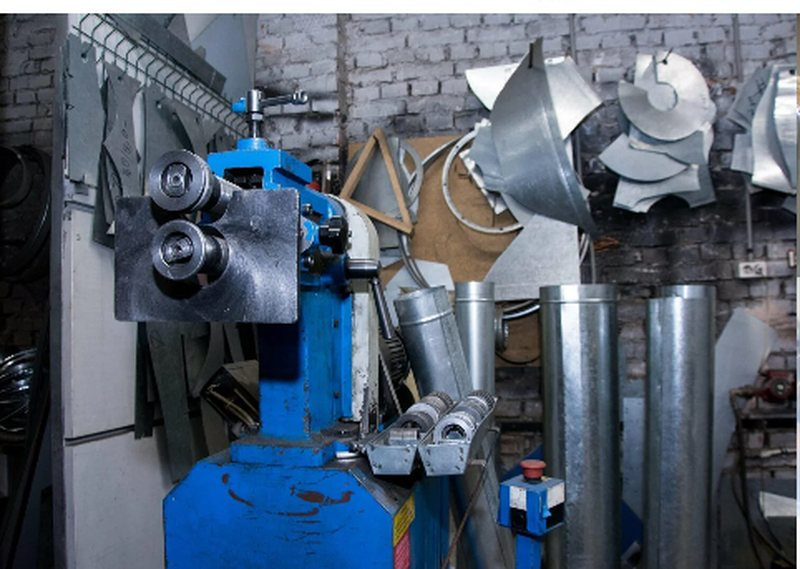
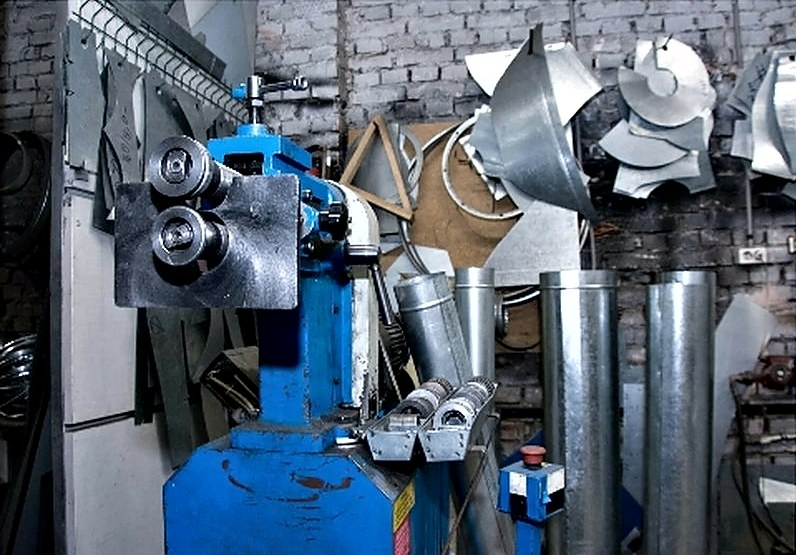
Restore the rest of the gallery photos
All work-*.jpg came out of screenshots of the old site and are damaged in
different ways, so each gets its own exposure target and colour-correction
strength rather than one recipe. Colour correction is off entirely where the
colour means something: the red CNC machine, the blue sky, snow.

Black and white points are set on luminance so hues do not shift, then a
saturation guard pulls chroma back if the stretch inflated it by more than
15% -- without it the hangar's sky went acid blue.

Edge bands left over from the screenshot crops are trimmed to measured
bounds. Auto-detection is not used: it ate ten live columns of work-3, whose
right side is legitimately three times brighter than its left.

Gallery weight goes from 480 to 674 KB; the processed frames carry more
contrast and compress worse. Dropping quality to 85 saves only 6%, so it
stays at 88.

Claude-Session: https://claude.ai/code/session_01BqZmAKPSiT8aZjQG1cCHvv

diff --git a/ventsai/img/README.md b/ventsai/img/README.md
@@ -21,22 +21,44 @@
 
 Если файла нет, в галерее показывается заглушка с подписью — вёрстка не ломается.
 
-## Обработка work-4.jpg
+## Обработка фотографий галереи
 
-Кадр был недоэкспонирован и синил: медиана яркости 58 из 255, средние по
-каналам 58/70/82. Что сделано (скрипт одноразовый, в репозиторий не клался):
+Все `work-*.jpg` вырезаны из скриншотов старого сайта и прогнаны через один
+скрипт (одноразовый, в репозиторий не клался). Общего рецепта нет — болячки
+у кадров разные, поэтому на каждый свои две настройки:
 
-- срезаны три светлых столбца по правому краю — мусор от вырезки из скриншота;
-- уровни по каждому каналу отдельно, но на 72% силы: цех действительно
-  освещён холодно, полная нейтрализация синевы выглядела бы фальшиво;
-- гамма подобрана так, чтобы медиана яркости вышла на ~85;
-- цветовой шум убран размытием только Cb/Cr, яркость не тронута;
-- объём и резкость — две нерезкие маски: большого радиуса на локальный
-  контраст, малого на детали, обе с порогом, чтобы не поднимать зерно в тенях.
+| Файл | Медиана яркости | Правка цвета | Что лечили |
+|---|---|---|---|
+| `work-1.jpg` | 32 → 64 | нет | очень темно; станок красный намеренно, каналы не трогали |
+| `work-3.jpg` | 91 → 96 | 50% | умеренная синева |
+| `work-4.jpg` | 58 → 85 | 60% | темно и синё |
+| `work-5.jpg` | 113 → 118 | 15% | экспозиция в порядке, не хватало контраста |
+| `work-6.jpg` | 103 → 110 | нет | нейтрально, но чёрного не было вовсе (p1 = 59) |
+| `work-7.jpg` | 173 → 175 | 10% | снег, светам расти некуда |
+| `work-8.jpg` | 104 → 107 | нет | синее небо настоящее, не было белой точки (p99 = 175) |
 
-Медиана яркости 58 → 85, размер 800×590 → 797×590, вес 90 → 117 КБ.
-Разрешение не поднималось: в плитке галереи кадр выводится примерно
-на 250–354 CSS-пикселя, исходных 800 хватает с запасом даже для 2x-экранов.
+Порядок действий на каждом кадре:
+
+1. чёрная и белая точки **по яркости** — одинаковый сдвиг на все три канала,
+   поэтому оттенки не едут; это лечит «пелену» на `work-6` и `work-8`;
+2. цветовой сдвиг — уровнями по каждому каналу, силой из таблицы. Ноль там,
+   где цвет осмысленный: красный станок, синее небо, снег;
+3. гамма до целевой медианы;
+4. цветовой шум — размытием только Cb/Cr, яркость не трогаем;
+5. объём и резкость — две нерезкие маски, большого и малого радиуса, обе
+   с порогом, чтобы не поднимать зерно в тенях;
+6. предохранитель на насыщенность: растяжка яркости множит и цвет, и на
+   кадре с ангаром небо от неё полезло в кислотную синеву. Если насыщенность
+   выросла больше чем на 15%, цветность прибирается обратно.
+
+Белые полосы по краям (след от вырезки из скриншота) срезаны по промеренным
+границам, а не автоматически: автоопределение срезало у `work-3` десять живых
+столбцов, потому что правый край кадра сам по себе втрое светлее левого.
+
+Разрешение не поднималось: в плитке галереи кадры выводятся примерно
+на 250–354 CSS-пикселя, исходных 800 хватает даже для 2x-экранов. Суммарный
+вес галереи вырос с 480 до 674 КБ — обработанные кадры контрастнее и хуже
+жмутся. Снижение качества до 85 экономит всего 6%, поэтому оставлено 88.
 
 ## nomenclature.jpg
 
